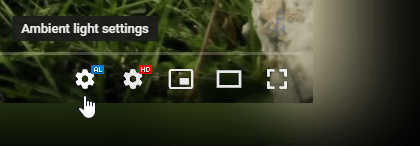
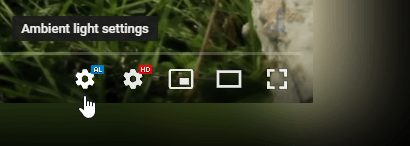
Options image too wide

diff --git a/src/styles/options.css b/src/styles/options.css
@@ -19,10 +19,6 @@ main {
   color: #ccc;
 }
 
-img {
-  width: 100%;
-}
-
 h1 {
   margin: 0 0 5px;
   font-size: 16px;
